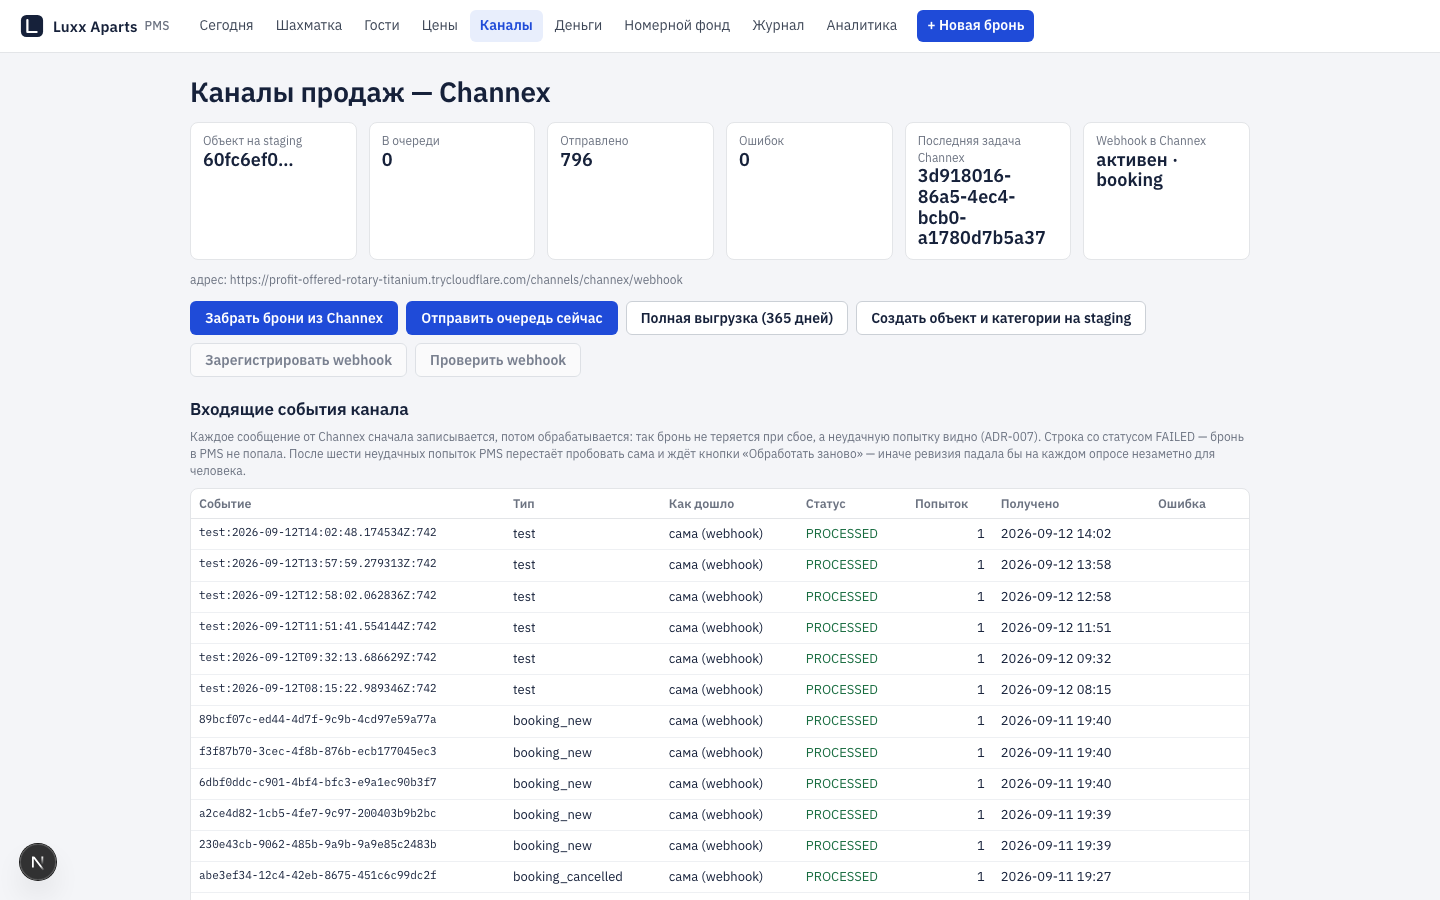
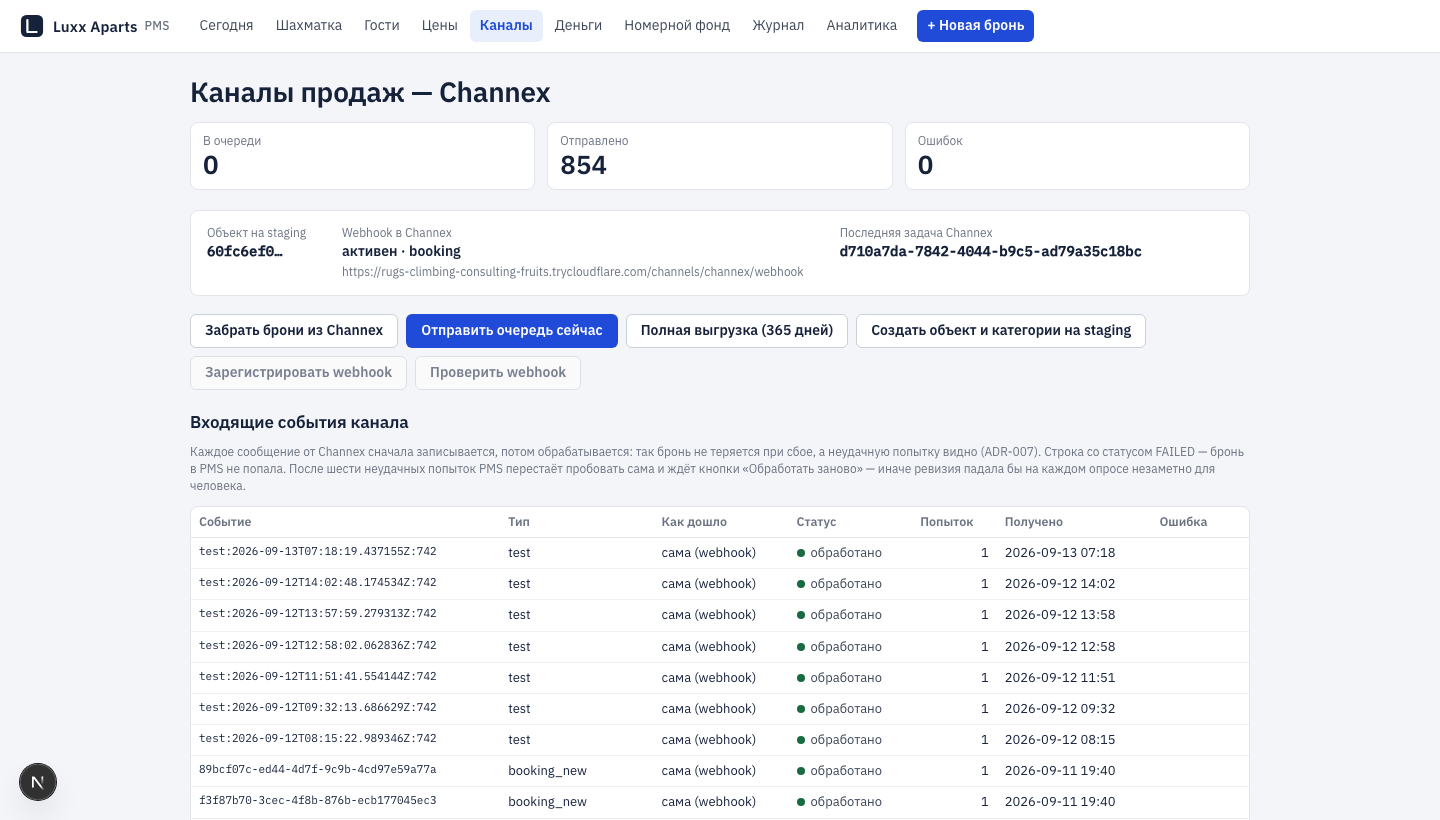
feat(web): channels and guests finish the design pass
Channels: an object id, a task UUID and the webhook status were shown as big stat tiles — tiles now carry
only the queue numbers, the rest is a facts row; incoming event status is a dot and a Russian word instead
of green English PROCESSED on every row; one filled button instead of two. Guests: the empty screen showed
a lone search box and read as a page that failed to load — it now says what to search for and that a guest
is created automatically at check-in and by a channel booking.

diff --git a/apps/web/src/app/channels/page.tsx b/apps/web/src/app/channels/page.tsx
@@ -1,9 +1,20 @@
 import { type OutboxSummary, api, channelsApi } from '../../lib/api';
 import { Page } from '../../components/page';
-import { Alert, SectionTitle, Stat, Stats, Table } from '../../components/ui';
+import { Alert, Badge, SectionTitle, Stat, Stats, Table } from '../../components/ui';
 import { ChannelButtons, RetryEventButton } from './buttons';
 
 /** Каналы (Channex staging): маппинг, очередь исходящих изменений, ручные действия. */
+const EVENT_RU: Record<string, string> = {
+  PROCESSED: 'обработано',
+  FAILED: 'ошибка',
+  RECEIVED: 'получено',
+  SKIPPED: 'пропущено',
+};
+const EVENT_TONE: Record<string, 'ok' | 'danger' | 'info'> = {
+  PROCESSED: 'ok',
+  FAILED: 'danger',
+  RECEIVED: 'info',
+};
 const VIA_RU: Record<string, string> = {
   WEBHOOK: 'сама (webhook)',
   PULL: 'опрос ленты',
@@ -23,44 +34,48 @@ export default async function ChannelsPage() {
   const property = mapping.find((m) => !m.providerRoomTypeId);
   return (
     <Page title="Каналы продаж — Channex">
-      <Stats min={160} style={{ marginBottom: 12 }}>
+      {/* Плитками — только числа очереди; идентификаторы и статус webhook строкой фактов (ADR-027) */}
+      <Stats min={150}>
+        <Stat label="В очереди" value={String(outbox.pending)} testId="outbox-pending" />
+        <Stat label="Отправлено" value={String(outbox.sent)} testId="outbox-sent" />
         <Stat
-          label="Объект на staging"
-          size="compact"
-          value={property ? property.providerPropertyId.slice(0, 8) + '…' : 'не создан'}
-        />
-        <Stat
-          label="В очереди"
-          size="compact"
-          value={String(outbox.pending)}
-          testId="outbox-pending"
-        />
-        <Stat label="Отправлено" size="compact" value={String(outbox.sent)} testId="outbox-sent" />
-        <Stat label="Ошибок" size="compact" value={String(outbox.failed)} />
-        <Stat
-          label="Последняя задача Channex"
-          size="compact"
-          value={outbox.lastTaskId ?? '—'}
-          testId="outbox-last-task"
-        />
-        <Stat
-          label="Webhook в Channex"
-          size="compact"
+          label="Ошибок"
           value={
-            webhook?.registered
+            <span className={outbox.failed > 0 ? 'danger-text' : undefined}>
+              {String(outbox.failed)}
+            </span>
+          }
+        />
+      </Stats>
+      <div className="facts facts--card">
+        <div>
+          <div className="fact__label">Объект на staging</div>
+          <div className="fact__value mono">
+            {property ? property.providerPropertyId.slice(0, 8) + '…' : 'не создан'}
+          </div>
+        </div>
+        <div>
+          <div className="fact__label">Webhook в Channex</div>
+          <div className="fact__value" data-testid="webhook-status">
+            {webhook?.registered
               ? `${webhook.active ? 'активен' : 'выключен'} · ${webhook.eventMask}`
               : webhook?.expectedUrl
                 ? 'не зарегистрирован'
-                : 'нет PUBLIC_API_URL'
-          }
-          testId="webhook-status"
-        />
-      </Stats>
-      {webhook?.registered && <p className="hint">адрес: {webhook.callbackUrl}</p>}
+                : 'нет PUBLIC_API_URL'}
+          </div>
+          {webhook?.registered && <div className="cell-sub break-all">{webhook.callbackUrl}</div>}
+        </div>
+        <div>
+          <div className="fact__label">Последняя задача Channex</div>
+          <div className="fact__value mono break-all" data-testid="outbox-last-task">
+            {outbox.lastTaskId ?? '—'}
+          </div>
+        </div>
+      </div>
       <OverbookingAlarm outbox={outbox} />
       <ChannelButtons webhookReady={webhookReady} />
       <SectionTitle>Входящие события канала</SectionTitle>
-      <p className="hint" style={{ margin: '0 0 8px' }}>
+      <p className="hint">
         Каждое сообщение от Channex сначала записывается, потом обрабатывается: так бронь не
         теряется при сбое, а неудачную попытку видно (ADR-007). Строка со статусом FAILED — бронь в
         PMS не попала. После шести неудачных попыток PMS перестаёт пробовать сама и ждёт кнопки
@@ -91,7 +106,11 @@ export default async function ChannelsPage() {
               </td>
               <td>{e.type}</td>
               <td>{VIA_RU[e.receivedVia ?? 'PULL'] ?? e.receivedVia}</td>
-              <td className={e.status === 'FAILED' ? 'danger-text' : 'ok-text'}>{e.status}</td>
+              <td>
+                <Badge tone={EVENT_TONE[e.status] ?? 'neutral'}>
+                  {EVENT_RU[e.status] ?? e.status}
+                </Badge>
+              </td>
               <td className="num">{e.attempts}</td>
               <td className="nowrap">{e.receivedAt.slice(0, 16).replace('T', ' ')}</td>
               <td className="danger-text">{e.lastError?.slice(0, 80) ?? ''}</td>

diff --git a/apps/web/src/app/guests/page.tsx b/apps/web/src/app/guests/page.tsx
@@ -1,7 +1,7 @@
 import Link from 'next/link';
 import { guestsApi } from '../../lib/api';
 import { Page } from '../../components/page';
-import { Button, Input, Table } from '../../components/ui';
+import { Button, Input, Panel, Table } from '../../components/ui';
 
 /** Поиск гостей: фамилия, имя, телефон, email. */
 export default async function GuestsPage({
@@ -58,6 +58,20 @@ export default async function GuestsPage({
             ))}
           </tbody>
         </Table>
+      )}
+      {query.length < 2 && (
+        /* Пустой экран без подсказки выглядит как незагрузившаяся страница: говорим, что искать и зачем */
+        <Panel size="lg">
+          <p className="hint--lg">
+            Найдите гостя по фамилии, имени, телефону или почте — хватит двух букв. В карточке гостя
+            видно гражданство, документ и все его проживания: удобно, когда гость звонит и просит
+            «как в прошлый раз».
+          </p>
+          <p className="hint">
+            Гость заводится сам при заселении и при брони из канала — отдельно создавать его не
+            нужно.
+          </p>
+        </Panel>
       )}
     </Page>
   );

diff --git a/apps/web/src/app/channels/buttons.tsx b/apps/web/src/app/channels/buttons.tsx
@@ -12,6 +12,7 @@ export function ChannelButtons({ webhookReady }: { webhookReady: boolean }) {
     <Stack gap="sm">
       <Row>
         <Button
+          tone="secondary"
           type="button"
           data-testid="channel-pull"
           onClick={() => run('pull')}

diff --git a/reports/desk-ui-base-2026-09-12.md b/reports/desk-ui-base-2026-09-12.md
@@ -128,3 +128,19 @@
 (контракт сетки не тронут: `unit-row` по-прежнему 88, `date-col`, `occupied-<дата>`, `stay-cell`,
 `td[data-state]` на месте; строка категории — отдельный `category-row`). Скриншот:
 `reports/screenshots/design-chessboard.png`.
+
+## Четвёртая волна: остальные экраны (13.09.2026)
+
+- **Каналы.** Плитками-показателями были и не-числа: идентификатор объекта, UUID последней задачи Channex
+  (переносился в три строки) и статус webhook. Осталось три плитки с числами очереди — в очереди,
+  отправлено, ошибок; остальное строкой фактов. Статус входящего события был английским `PROCESSED`
+  зелёными заглавными в каждой строке — стал точкой и словом («обработано», «ошибка»). Из двух залитых
+  синих кнопок подряд залитой осталась одна.
+- **Гости.** Пустой экран показывал только поле поиска и выглядел как незагрузившаяся страница. Добавлена
+  подсказка: что искать (хватит двух букв), что видно в карточке и что гость заводится сам при заселении
+  и при броне из канала.
+- Проверены и оставлены без правок: «Новая бронь», «Деньги за период», «Журнал», «Номерной фонд», карточка
+  ячейки — после общих правил они читаются нормально.
+
+Проверки: `npm run check` — 63 файла / 414 unit-тестов, lint и типы зелёные; e2e экранов, которых
+касалась правка, — зелёные.
